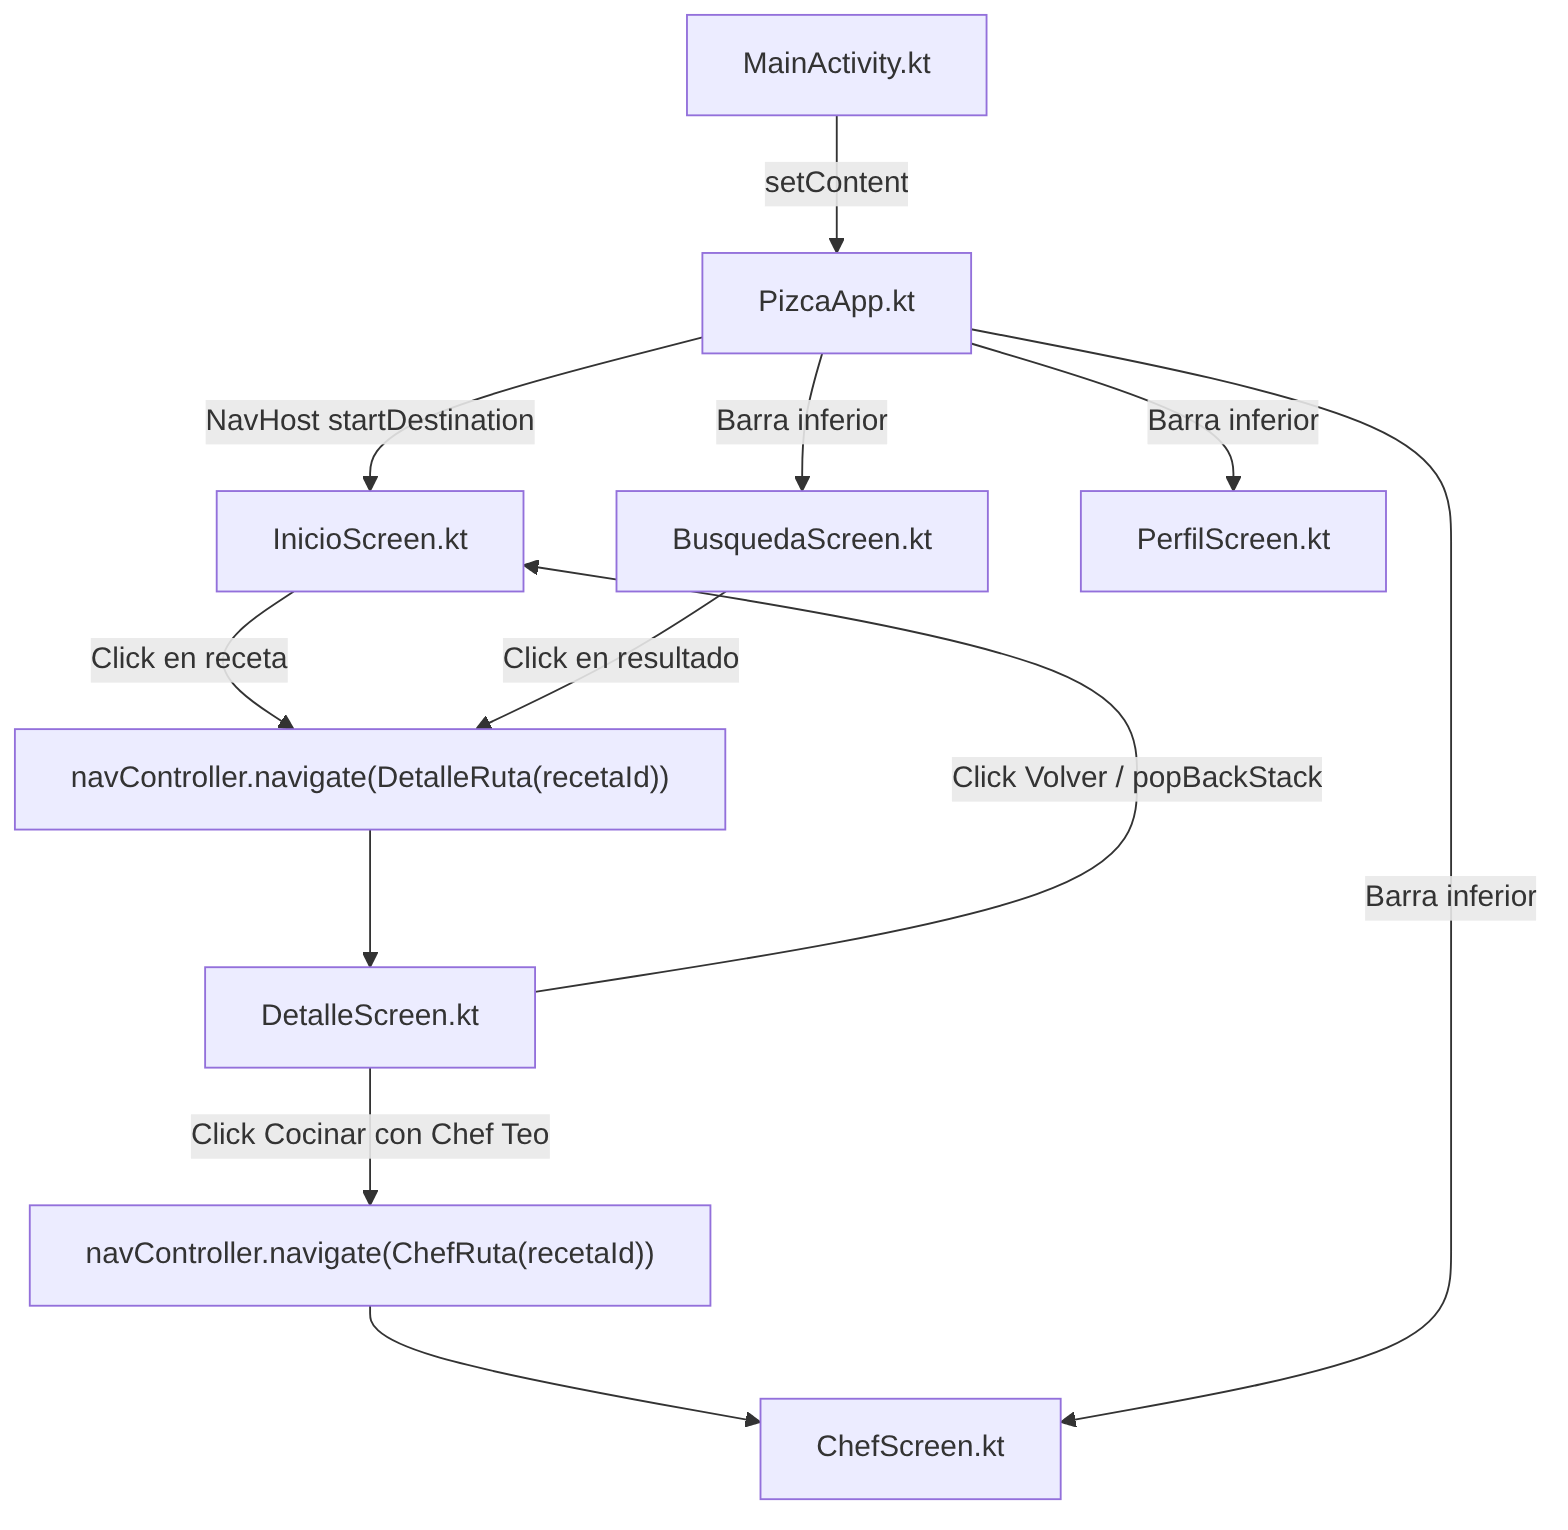
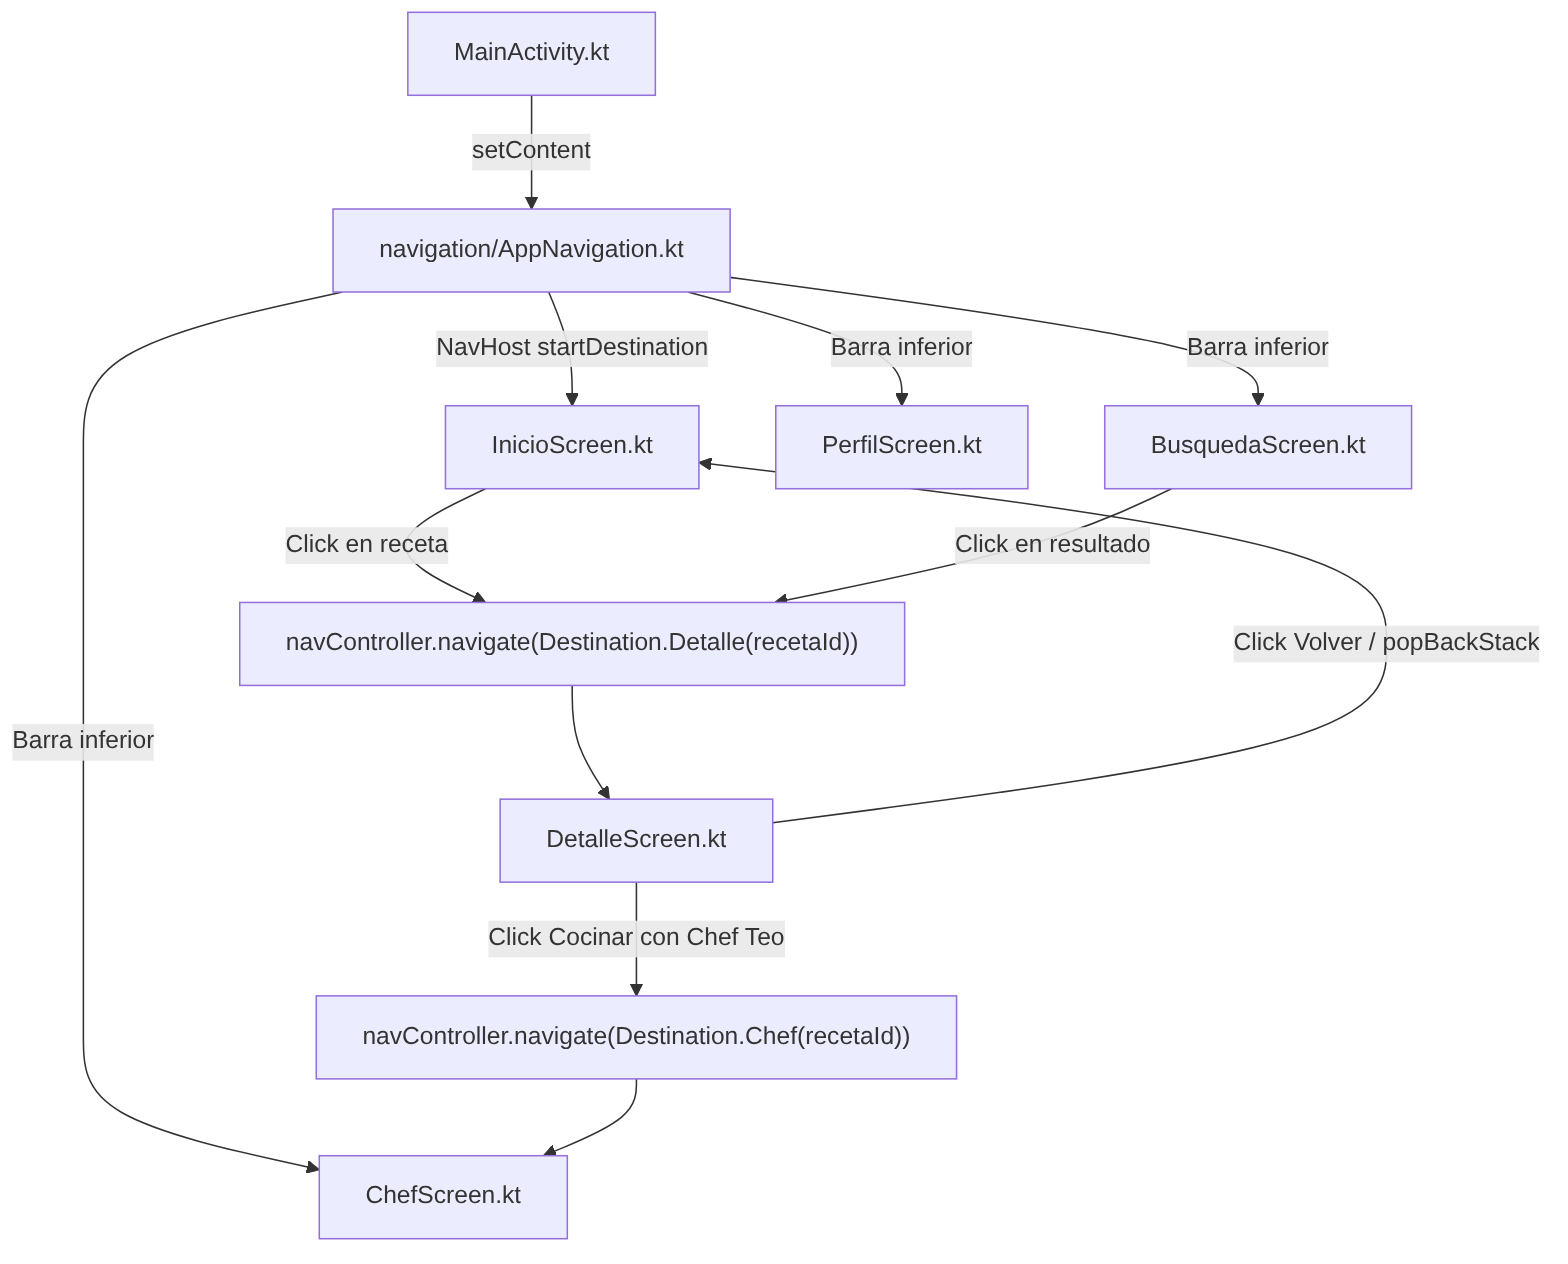
docs: navegación con Destination y diagrama de flujo actualizado

diff --git a/README.md b/README.md
@@ -247,41 +247,35 @@ flowchart LR
 
 ## 🧭 Navegación (Type-Safe)
 
-La app usa la navegación oficial de Jetpack Compose con rutas `@Serializable`:
+La app usa la navegación oficial de Jetpack Compose con rutas `@Serializable`. Todo vive en `presentation/navigation/`:
+
+- **Destinations.kt**: todas las rutas agrupadas en `sealed interface Destination`.
+- **AppNavigation.kt**: la barra inferior y el `NavHost`.
 
 - **NavController**: el "GPS" de la app. Guarda la pila de pantallas y hace los cambios.
 - **NavHost**: el mapa que une cada ruta con su pantalla.
-- **composable<Ruta>**: registra una pantalla en el mapa.
+- **composable<Destination.X>**: registra una pantalla en el mapa.
 - **toRoute()**: recupera los datos que viajan en la ruta (por ejemplo, el `recetaId`).
 
 ### Rutas
 
 | Ruta | Tipo | Datos que lleva | Pantalla |
 |---|---|---|---|
-| `InicioRuta` | object | — | InicioScreen |
-| `BusquedaRuta` | object | — | BusquedaScreen |
-| `PerfilRuta` | object | — | PerfilScreen |
-| `DetalleRuta` | data class | `recetaId: String` | DetalleScreen |
-| `ChefRuta` | data class | `recetaId: String?` (opcional) | ChefScreen |
+| `Destination.Inicio` | data object | — | InicioScreen |
+| `Destination.Busqueda` | data object | — | BusquedaScreen |
+| `Destination.Perfil` | data object | — | PerfilScreen |
+| `Destination.Detalle` | data class | `recetaId: String` | DetalleScreen |
+| `Destination.Chef` | data class | `recetaId: String?` (opcional) | ChefScreen |
 
 ### Flujo
-
-```mermaid
-flowchart LR
-    I[InicioRuta] -- "navigate(DetalleRuta(id))" --> D[DetalleRuta]
-    B[BusquedaRuta] -- "navigate(DetalleRuta(id))" --> D
-    D -- "navigate(ChefRuta(id))" --> C[ChefRuta]
-    D -- popBackStack --> I
-    I <-. barra inferior .-> B
-    I <-. barra inferior .-> C
-    I <-. barra inferior .-> P[PerfilRuta]
-```
 
 <img src="docs/capturas/flujo-pizca.png" width="600" alt="Diagrama de flujo de navegación">
 
 - Las pantallas no reciben el `NavController`: reciben eventos como `onRecetaClick` y `onVolver`.
 - La barra inferior usa `popUpTo`, `launchSingleTop` y `restoreState` para no repetir pantallas y recordar cada pestaña.
 - En el Detalle se oculta la barra inferior.
+
+📘 **Arquitectura completa, archivo por archivo:** [docs/tutorial_arquitectura.md](docs/tutorial_arquitectura.md)
 
 ## 🔀 Flujo de trabajo (GitHub Flow)
 
